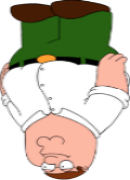
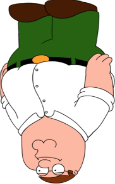
add - basic scalability hero

diff --git a/android/src/com/team/baster/controller/HeroController.java b/android/src/com/team/baster/controller/HeroController.java
@@ -6,9 +6,12 @@ import com.badlogic.gdx.math.Rectangle;
 import com.badlogic.gdx.utils.Array;
 import com.badlogic.gdx.utils.TimeUtils;
 
+import static com.team.baster.GameConstants.HEAD_HEIGHT;
+import static com.team.baster.GameConstants.HEAD_WIDTH;
 import static com.team.baster.GameConstants.HERO_HEIGHT;
 import static com.team.baster.GameConstants.HERO_SIZES;
 import static com.team.baster.GameConstants.HERO_WIDTH;
+import static com.team.baster.GameConstants.MARGIN_LEFT_PERCENT;
 import static com.team.baster.GameConstants.PERIOD_RESIZE;
 import static com.team.baster.GameConstants.WORLD_HEIGHT;
 import static com.team.baster.GameConstants.WORLD_WIDTH;
@@ -20,31 +23,43 @@ import static com.team.baster.GameConstants.WORLD_WIDTH;
 public class HeroController {
     private static final double SPEED_FACTOR = 1;
     public Rectangle hero;
-    private Texture heroTexture;
+    public Texture heroTexture;
     private Array<Texture> heroSizes;
     private int heroSize = 0;
-    private long timeLeft = TimeUtils.nanoTime();
+    private long timeLeft;
+
+    public Rectangle heroHead;
+    public Rectangle heroBody;
+
+
 
     public HeroController() {
         hero = new Rectangle();
+        heroHead = new Rectangle();
+        heroBody = new Rectangle();
         heroSizes = new Array<>();
+        timeLeft = TimeUtils.nanoTime();
         initArray();
         configHero();
     }
 
     public void controlHeroInput() {
         if (Gdx.input.isTouched()) {
-            hero.x += Gdx.input.getDeltaX() * SPEED_FACTOR;
+            double x = Gdx.input.getDeltaX() * SPEED_FACTOR;
+            hero.x += x;
+            heroBody.x += x;
+            heroHead.x += x;
         }
     }
 
     public void controlHeroPosition() {
         if (hero.x < 0) hero.x = 0;
-        if (hero.x > WORLD_WIDTH - HERO_WIDTH) hero.x = WORLD_WIDTH - HERO_WIDTH;
+        if (hero.x > WORLD_WIDTH - heroTexture.getWidth())
+            hero.x = WORLD_WIDTH - heroTexture.getWidth();
     }
 
-    private void initArray(){
-        for (int i = 0; i < HERO_SIZES; i++){
+    private void initArray() {
+        for (int i = 0; i < HERO_SIZES; i++) {
             heroSizes.add(new Texture("hero/grif_" + i + ".png"));
         }
         heroTexture = heroSizes.first();
@@ -52,33 +67,60 @@ public class HeroController {
 
     private void configHero() {
         hero.x = WORLD_WIDTH / 2 - HERO_WIDTH / 2;
-        hero.y = WORLD_HEIGHT - (WORLD_HEIGHT / 5) - HERO_HEIGHT + 2;
+        hero.y = WORLD_HEIGHT - (WORLD_HEIGHT / 5) - HERO_HEIGHT;
         hero.width = HERO_WIDTH;
         hero.height = HERO_HEIGHT;
+        heroHead.x = hero.x + (float) (HERO_WIDTH * MARGIN_LEFT_PERCENT);
+        System.out.println("Hero Head = " + heroHead.x);
+        heroHead.y = hero.y;
+        heroHead.width = HEAD_WIDTH;
+        heroHead.height = HEAD_HEIGHT;
+        heroBody.x = hero.x;
+        heroBody.y = hero.y + heroHead.height;
+        heroBody.width = hero.width;
+        heroBody.height = hero.height - heroHead.height;
     }
 
-    public Texture resizeHero(){
+    public Texture resizeHero() {
         long time = TimeUtils.nanoTime() - timeLeft;
-        if (time / PERIOD_RESIZE > 1 && heroSize < heroSizes.size - 1){
-            heroTexture =  heroSizes.get(++heroSize);
+        if (time / PERIOD_RESIZE >= 1 && heroSize < heroSizes.size - 1) {
+            heroTexture = heroSizes.get(++heroSize);
+            System.out.println("OLD SIZE = " + heroSize + ", NEW SIZE = " + (heroSize + 1));
             hero.width = heroTexture.getWidth();
             hero.height = heroTexture.getHeight();
+            heroBody.width = heroTexture.getWidth();
+            hero.x += 2;
+            heroBody.x = hero.x;
+            heroHead.x = hero.x + (float) (HERO_WIDTH * MARGIN_LEFT_PERCENT);
+            heroHead.y = hero.y;
+            heroHead.width += 2;
+            heroHead.height += 2;
+            heroBody.height = hero.height - heroHead.height;
+            heroBody.y = hero.y + heroHead.height;
             timeLeft = TimeUtils.nanoTime();
         }
         return heroTexture;
     }
 
-    public Texture diet(){
+    public Texture diet() {
         if (heroSize > 0) {
             heroTexture = heroSizes.get(--heroSize);
             hero.width = heroTexture.getWidth();
             hero.height = heroTexture.getHeight();
+            hero.x -= 2;
+            heroHead.x = hero.x + (float) (HERO_WIDTH * MARGIN_LEFT_PERCENT);
+            heroHead.width -= 2;
+            heroHead.height -= 2;
+            heroBody.width = hero.width;
+            heroBody.height = hero.height - heroHead.height;
+            heroBody.x = hero.x;
+            heroBody.y = hero.y + heroHead.height;
         }
         return heroTexture;
     }
 
-    public void dispose(){
-        for (Texture t : heroSizes){
+    public void dispose() {
+        for (Texture t : heroSizes) {
             t.dispose();
         }
     }

diff --git a/android/src/com/team/baster/controller/BlockController.java b/android/src/com/team/baster/controller/BlockController.java
@@ -32,20 +32,20 @@ public class BlockController {
         playerStatusStorage = PlayerStatusStorage.getInstance();
     }
 
-    public void controlItemPosition(Rectangle hero, int speed, int score, int coins) {
-        controlBlockPosition(hero, speed, score, coins);
-        controlSquarePosition(hero, speed, score, coins);
+    public void controlItemPosition(Rectangle head, Rectangle body, int speed, int score, int coins) {
+        controlBlockPosition(head, body, speed, score, coins);
+        controlSquarePosition(head, body, speed, score, coins);
     }
 
-    private void controlBlockPosition(Rectangle hero, int speed, int score, int coins) {
+    private void controlBlockPosition(Rectangle head, Rectangle body, int speed, int score, int coins) {
 
         for (Rectangle item : blockGenerator.blocks) {
             item.y += speed * Gdx.graphics.getDeltaTime();
-            checkHeroCollision(item, hero, score, coins);
+            checkHeroCollision(item, head, body, score, coins);
         }
     }
 
-    private void controlSquarePosition(Rectangle hero, int speed, int score, int coins) {
+    private void controlSquarePosition(Rectangle head, Rectangle body, int speed, int score, int coins) {
         for (Rectangle aSquare : blockGenerator.square) {
             Square item = (Square) aSquare;
             item.y += speed * Gdx.graphics.getDeltaTime();
@@ -56,12 +56,12 @@ public class BlockController {
             } else if (item.isLeft()) {
                 item.x -= horMove;
             }
-            checkHeroCollision(item, hero, score, coins);
+            checkHeroCollision(item, head, body, score, coins);
         }
     }
 
-    private void checkHeroCollision(Rectangle item, Rectangle hero, int score, int coins) {
-        if (item.overlaps(hero)) {
+    private void checkHeroCollision(Rectangle item, Rectangle head, Rectangle body, int score, int coins) {
+        if (item.overlaps(head) || item.overlaps(body)) {
             save(score, coins);
             game.setScreen(new GameOverScreen(game, score, coins));
         }

diff --git a/android/src/com/team/baster/screens/BasterScreen.java b/android/src/com/team/baster/screens/BasterScreen.java
@@ -72,13 +72,14 @@ public class BasterScreen implements Screen {
         game.batch.end();
 
         calculateSpeed();
+        heroController.resizeHero();
         scoreController.calculateScore(speed);
         backgroundController.checkLasDropBackground();
         backgroundController.controlBackgroundPosition(speed);
         heroController.controlHeroInput();
         blockController.checkLasDropItemTime();
         heroController.controlHeroPosition();
-        blockController.controlItemPosition(heroController.hero, speed, scoreController.getScore(), coinController.getCoinsCounter());
+        blockController.controlItemPosition(heroController.heroHead, heroController.heroBody, speed, scoreController.getScore(), coinController.getCoinsCounter());
         coinController.controlCoins(speed);
         coinController.checkCoinGeneration(blockController.blockGenerator.lastDropItem, blockController.blockGenerator.beforeLastDropItem);
     }
@@ -153,7 +154,7 @@ public class BasterScreen implements Screen {
     }
 
     private void drawHero() {
-        game.batch.draw(heroController.resizeHero(), heroController.hero.x, heroController.hero.y);
+        game.batch.draw(heroController.heroTexture, heroController.hero.x, heroController.hero.y);
     }
 
     private void drawBackground() {

diff --git a/core/src/com/team/baster/GameConstants.java b/core/src/com/team/baster/GameConstants.java
@@ -29,9 +29,12 @@ public class GameConstants {
     public static final int DEFAULT_SPEED = 300;
     public static final int HORIZONTAL_SPEED = 200;
     public static final long PERIOD_ACCELERATION = 10_00_000_000L;
-    public static final long PERIOD_RESIZE = 4_000_000_000L;
-    public static final int HERO_SIZES = 11;
-    public static final float PART_ACCELERATION = 0.035f;
+    public static final long PERIOD_RESIZE = 2_000_000_000L;
+    public static final int HERO_SIZES = 16;
+    public static final double MARGIN_LEFT_PERCENT = 0.18;
+    public static final int HEAD_WIDTH = 73;
+    public static final int HEAD_HEIGHT = 40;
+    public static final float PART_ACCELERATION = 0.025f;
 
     public static int ITEM_WIDTH = 180;
     public static int ITEM_HEIGHT = 70;
@@ -41,7 +44,7 @@ public class GameConstants {
 
 
     public static int HERO_WIDTH = 100;
-    public static int HERO_HEIGHT = 170;
+    public static int HERO_HEIGHT = 160;
 
     public static int COIN_SIDE = 50;
 

diff --git a/android/src/com/team/baster/controller/CoinController.java b/android/src/com/team/baster/controller/CoinController.java
@@ -37,7 +37,7 @@ public class CoinController {
         while (iter.hasNext()) {
             Rectangle item = iter.next();
             item.y += speed * Gdx.graphics.getDeltaTime();
-            if (checkCoinCollisions(item, heroController.hero)) {
+            if (checkCoinCollisions(item, heroController.heroHead) || checkCoinCollisions(item, heroController.heroBody)) {
                 iter.remove();
                 heroController.diet();
             }
